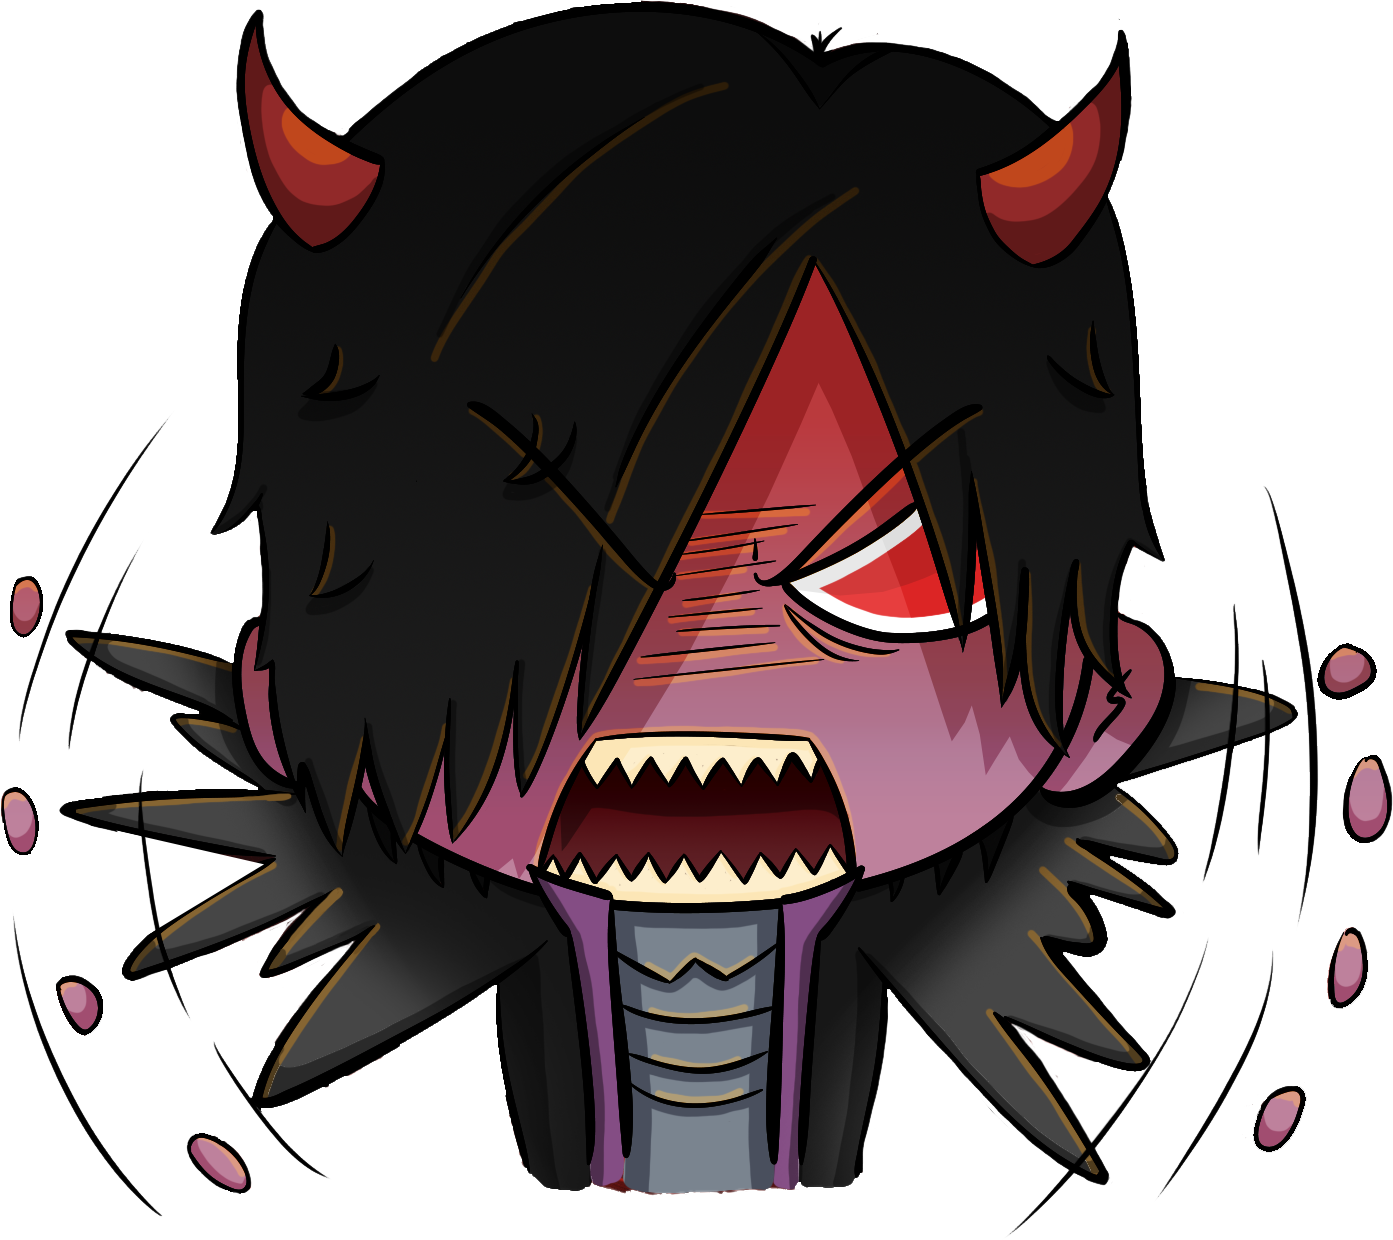
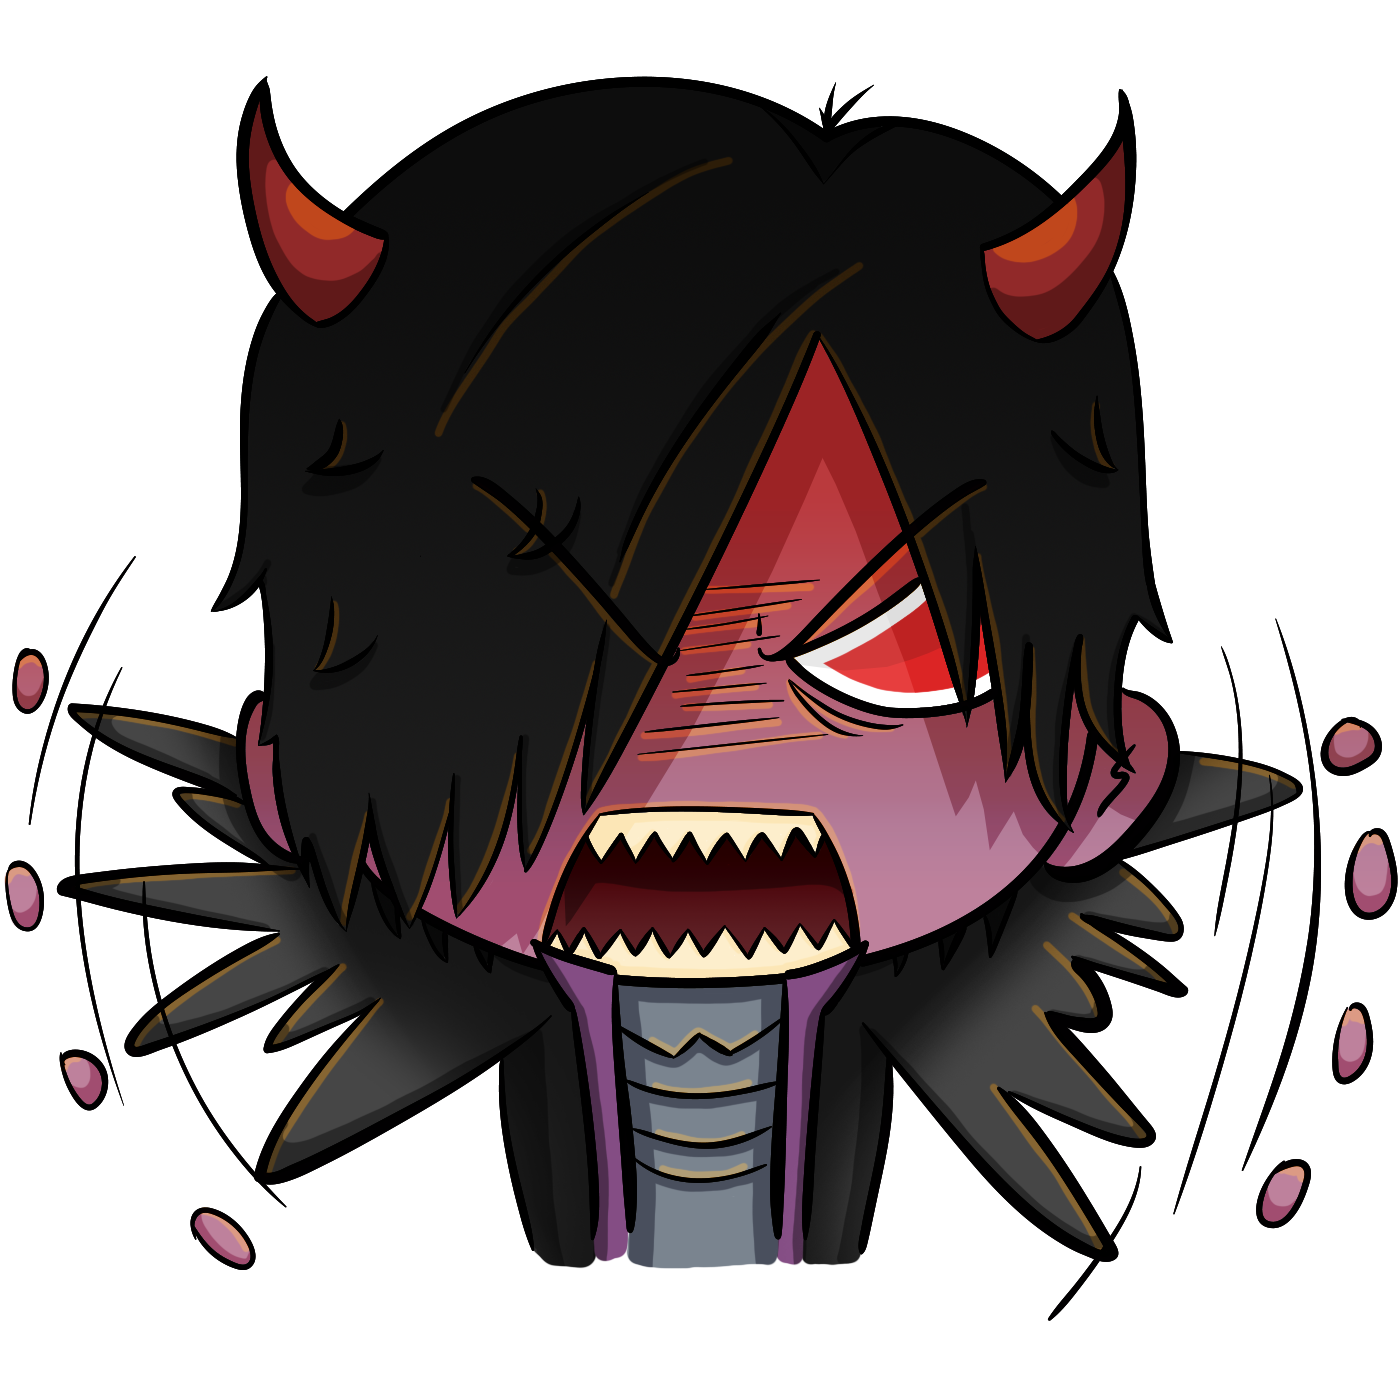
changes

diff --git a/src/index.js b/src/index.js
@@ -14,9 +14,6 @@ let lastHole = 0;
 let points = 0;
 let difficulty = "hard";
 
-
-setEventListeners(); // Set click event listeners for moles
-
 // Generates a random integer within a range.
 // Function that takes two values as parameters that limit the range of the number to be generated.
 function randomInteger(min, max) {
@@ -124,12 +121,6 @@ function playHitSound() {
   hitAudio.play();
 }
 
-function playGameMusic() {
-  const hitAudio = document.getElementById("game-music");
-  hitAudio.volume = 1.0;
-  hitAudio.play();
-}
-
 // Function that sets the moleAudio sound
 function playMoleSound() {
   const moleAudio = document.getElementById("mole-audio");
@@ -138,11 +129,12 @@ function playMoleSound() {
 }
 
 // Event handler that gets called when a player clicks on a mole
-function whack() { 
+function whack(score) { 
   updateScore();
   audioHit.currentTime = 0;
   audioHit.play(); 
   
+  return points;
 }
 
 // Adds the 'click' event listeners to the moles.
@@ -182,11 +174,10 @@ startButton.addEventListener("click", startGame); // Add a click event listener 
 
 // Function that starts the game when the `startButton` is clicked.
 function startGame() {
-  setDuration(10); // Set the game duration to 10 seconds
+  setDuration(3); // Set the game duration to 10 seconds
   startTimer(); // Start the game timer
   showUp(); // Start the game by showing the moles
   clearScore(); // Initialize the score to 0
-  playGameMusic();
   document.body.style.cursor = 'url("assets/mallet.png"), auto'; // Sets the cursor style
 
   setEventListeners(); // Set click event listeners for moles

diff --git a/src/styles.css b/src/styles.css
@@ -110,8 +110,8 @@ h2 {
 }
 
 .mole {
-  background:url('../assets/sad-lag.png') bottom center no-repeat;
-  background-size: 50%;
+  background:url('../assets/mad_devil.png') bottom center no-repeat;
+  background-size: 60%;
   position: absolute;
   top: 90%;
   width: 100%;
@@ -123,7 +123,7 @@ h2 {
 
 
 .hole.show .mole {
-  top: -15%;
+  top: -10%;
   transform: scale(1.1);
 }
 
